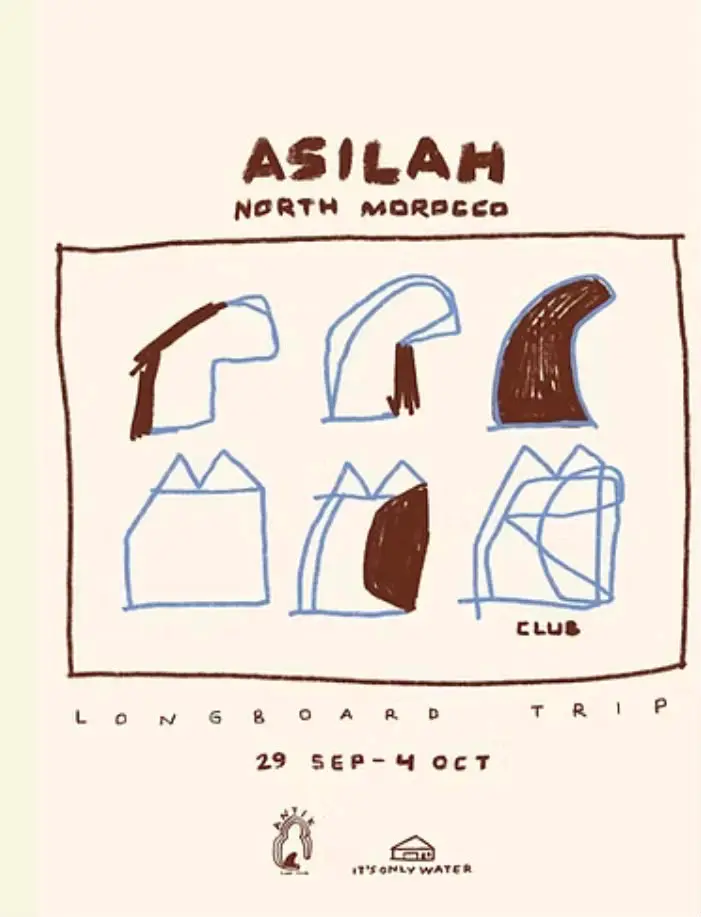
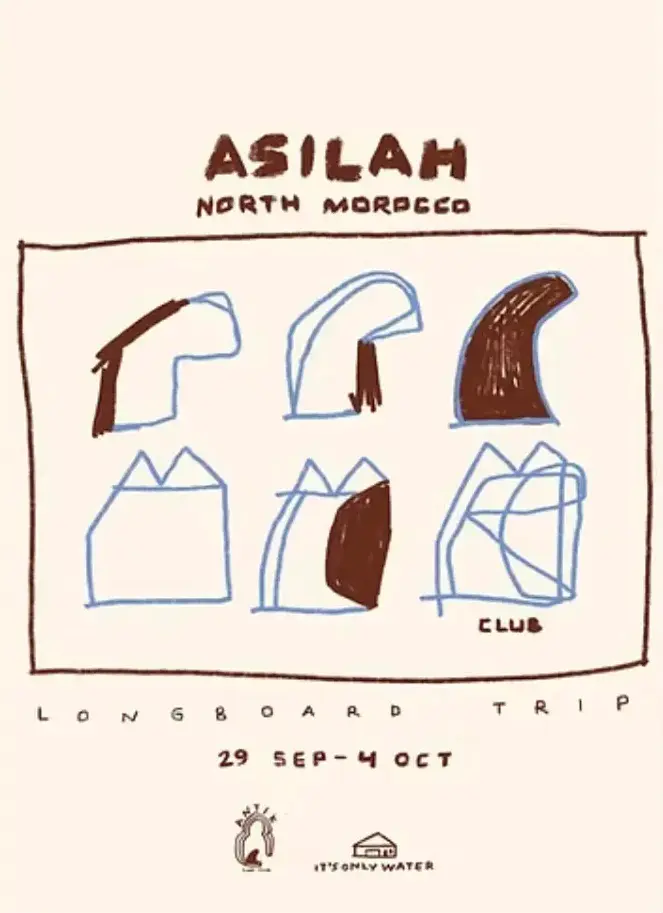
cambio portada y boton view trip

diff --git a/src/components/layout/Section/Section.jsx b/src/components/layout/Section/Section.jsx
@@ -1,7 +1,7 @@
 // Section.jsx
 import styles from "./Section.module.css";
 
-function Section({ children, as: Tag = "section", spacing = "md", className = "" }) {
+function Section({ children, as: Tag = "section", spacing = "md", className = ""}) {
   return (
     <Tag className={`${styles.section} ${styles[spacing]} ${className}`}>
       {children}

diff --git a/src/components/surftrips/upcomingtrips/UpcomingTrips.jsx b/src/components/surftrips/upcomingtrips/UpcomingTrips.jsx
@@ -11,6 +11,7 @@ export default async function UpcomingTrips() {
   const t = await getTranslations("surftrips.upcomingTrips");
 
   return (
+    <div id="upcoming-trips">
     <Section>
       <Container>
 
@@ -34,5 +35,6 @@ export default async function UpcomingTrips() {
 
       </Container>
     </Section>
+    </div>
   );
 }

diff --git a/app/[locale]/surftrips/page.tsx b/app/[locale]/surftrips/page.tsx
@@ -29,7 +29,7 @@ export default function Page() {
   return (
     <>
       <Hero />
-      <UpcomingTrips />
+      <UpcomingTrips/>
       <Included />
       <Accommodation />
       <SurfSpots />

diff --git a/src/components/surftrips/upcomingtrips/components/TripCard.module.css b/src/components/surftrips/upcomingtrips/components/TripCard.module.css
@@ -35,6 +35,7 @@
 
 .image {
     object-fit: cover;
+    object-position: center 40%;
 }
 
 
